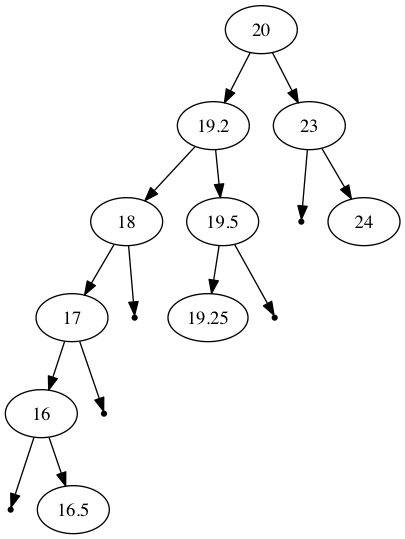
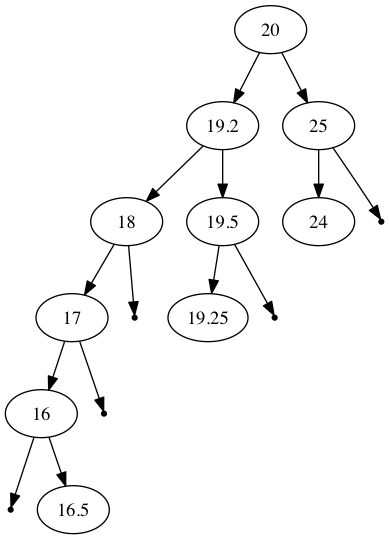
fixed the tests for deletion

diff --git a/src/test_bst.py b/src/test_bst.py
@@ -276,58 +276,51 @@ def test_breath_first_filled(traversals):
     assert breath_list == [20, 16, 25, 14, 17, 22, 4, 15]
 
 
-# delete tests
+# DELETE TEST
 
-def test_delete_not_there(traversals):
-    """Test the deletion of a node that not exist returns None."""
-    outcome = traversals.delete(5)
-    assert outcome is None
-
-
-def test_delete_no_kids_there(traversals):
-    """Test the deletion of a node that not exist returns None."""
-    outcome = traversals.delete(4)
-    assert outcome is None
-
-
-def test_delete_no_kids_removed(traversals):
-    """Test the deletion of a node that not exist returns None."""
-    assert traversals.contains(4)
+def test_delete_no_kids(traversals):
+    """Test the deletion of a node with no children are no longer contained."""
+    assert traversals.contains(4) is True
     traversals.delete(4)
     assert traversals.contains(4) is False
 
 
-def test_delete_one_kids_there(traversals):
-    """Test the deletion of a node that not exist returns None."""
-    outcome = traversals.delete(14)
-    assert outcome is None
+def test_delete_no_kid_size(traversals):
+    """Test deleting a node with no childern will return the correct size."""
+    assert traversals.contains(4) is True
+    pre_delete = traversals.size()
+    traversals.delete(4)
+    post_delete = traversals.size()
+    assert post_delete == (pre_delete - 1)
 
 
-def test_delete_one_kid_removed(traversals):
-    """Test the deletion of a node that not exist returns None."""
-    assert traversals.contains(14)
+def test_delete_one_kid(traversals):
+    """Test the deletion of a node with 1 children are no longer contained."""
+    assert traversals.contains(16) is True
+    traversals.delete(16)
+    assert traversals.contains(16) is False
+
+
+def test_delete_one_kid_size(traversals):
+    """Test deleting a node with 1 child will return the correct size."""
+    assert traversals.contains(16) is True
+    pre_delete = traversals.size()
+    traversals.delete(16)
+    post_delete = traversals.size()
+    assert post_delete == (pre_delete - 1)
+
+
+def test_delete_two_kids(traversals):
+    """Test the deletion of a node with 2 children are no longer contained."""
+    assert traversals.contains(14) is True
     traversals.delete(14)
     assert traversals.contains(14) is False
 
 
-def test_delete_two_kids_there(traversals):
-    """Test the deletion of a node that not exist returns None."""
-    traversals.insert(16.5)
-    outcome = traversals.delete(16)
-    assert outcome is None
-
-
-def test_delete_size_works(traversals):
-    """Test the deletion of a node that not exist returns None."""
-    traversals.insert(16.5)
-    outcome = traversals.delete(16)
-    assert outcome is None
-
-
-def test_delete_two_kid_removed(traversals):
-    """Test the deletion of a node that not exist returns None."""
-    assert traversals.contains(16)
-    traversals.insert(16.5)
+def test_delete_two_kid_size(traversals):
+    """Test deleting a node with 2 child will return the correct size."""
+    assert traversals.contains(14) is True
     pre_delete = traversals.size()
-    traversals.delete(16)
-    assert pre_delete == (traversals.size() + 1)
+    traversals.delete(14)
+    post_delete = traversals.size()
+    assert post_delete == (pre_delete - 1)

diff --git a/src/bst.py b/src/bst.py
@@ -238,24 +238,27 @@ class BST(object):
 
     def delete(self, val):
         """Remove the value of choice from the BST."""
-        if self.top:
-            cursor = self.top
-            while cursor is not None:
-                if val == cursor.value:
-                    self.length -= 1
-                    if cursor.left and cursor.right:
-                        self._two_children(cursor)
-                    elif cursor.left:
-                        self._one_child(cursor, 'left')
-                    elif cursor.right:
-                        self._one_child(cursor, 'right')
+        if self.contains(val):
+            if self.top:
+                cursor = self.top
+                while cursor is not None:
+                    if val == cursor.value:
+                        self.length -= 1
+                        if cursor.left and cursor.right:
+                            self._two_children(cursor)
+                        elif cursor.left:
+                            self._one_child(cursor, 'left')
+                        elif cursor.right:
+                            self._one_child(cursor, 'right')
+                        else:
+                            self._no_children(cursor)
+                        break
+                    if cursor.value > val:
+                        cursor = cursor.left
                     else:
-                        self._no_children(cursor)
-                    break
-                if cursor.value > val:
-                    cursor = cursor.left
-                else:
-                    cursor = cursor.right
+                        cursor = cursor.right
+        else:
+            pass
 
     def write_graph(self):
         """Write dots to a file."""
@@ -290,5 +293,5 @@ if __name__ == '__main__':
     b.delete(19)
     b.insert(24)
     b.insert(16.5)
-    b.delete(25)
+    b.delete(23)
     b.write_graph()
